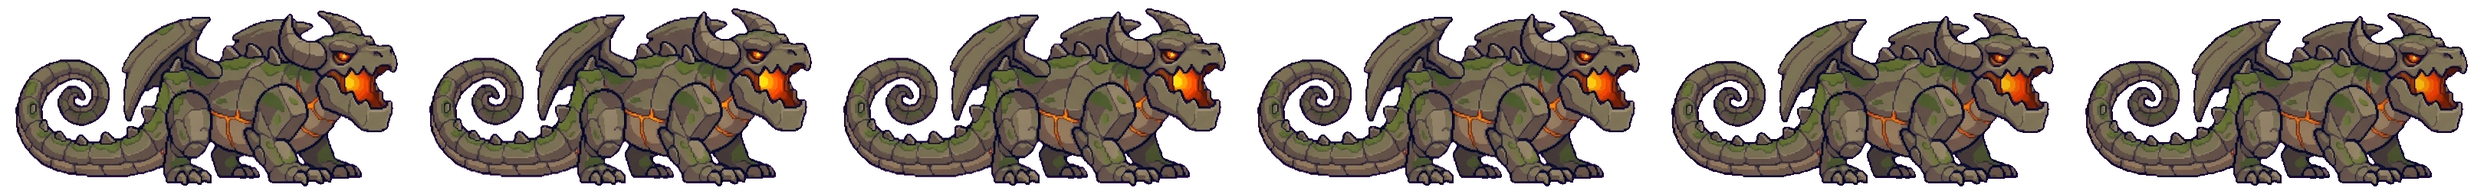
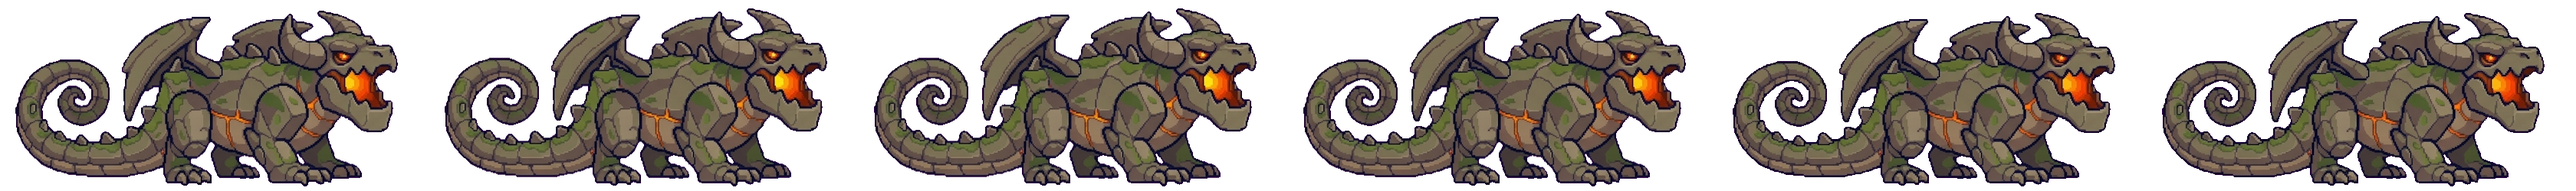
v234: Stone dragon claw attack frames
Claude-Session: https://claude.ai/code/session_014dDJFgpBf2uephg2yojD2h

diff --git a/index.html b/index.html
@@ -738,7 +738,7 @@ table.cmp .ok{color:#2f7a2a}table.cmp .no{color:#b22a1a}table.cmp tr.bad td{back
 <script>
 "use strict";
 // Phiên bản game: tăng mỗi lần phát hành để người chơi biết đang chạy bản nào
-const GAME_VER='233',GAME_DATE='07/11/2026';
+const GAME_VER='234',GAME_DATE='07/11/2026';
 // ================= cấu hình chung =================
 const T=64;
 const $=id=>document.getElementById(id);
@@ -748,7 +748,7 @@ const clamp=(v,a,b)=>Math.max(a,Math.min(b,v));
 
 // ================= tài nguyên Tiny Swords =================
 const A={};
-const ANAMES=['rd_idle','vfx_lp1','vfx_lp2','vfx_lp3','vfx_tt1','vfx_tt2','vfx_tt3','vfx_tl1','vfx_tl2','vfx_tl3','vfx_hk1','vfx_hk2','vfx_hk3','vfx_lt1','vfx_lt2','vfx_lt3','vfx_lt4','gc_fire','tn_cart','tn_npc','gc_bg','gc_foe_idle','gc_foe_run','gc_foe_atk','ng_bob','ng_fish','ng_walk','ng_idle','ng_cast','ar_bg','glad_idle','glad_run','glad_atk','htt_idle','htt_run','htt_atk','htt_sk1','htt_sk2','htt_hurt','htt_death','htl_idle','htl_run','htl_atk','htl_sk1','htl_sk2','htl_hurt','htl_death','hhk_idle','hhk_run','hhk_atk','hhk_sk1','hhk_sk2','hhk_hurt','hhk_death','hlc_idle','hlc_run','hlc_atk','hlc_sk1','hlc_sk2','hlc_hurt','hlc_death','hv_gate_l','hv_gate_o','hv_banner','zoo_house','zoo_banner','zoo_bg_cuu','zoo_bg_cao','zoo_bg_cua','hlp_idle','hlp_run','hlp_atk','hlp_sk1','hlp_sk2','hlp_hurt','hlp_death','golem_idle','golem_run','golem_atk','tilemap','tilemap6','tilemap7','tilemap8','tilemap9','bohua_idle','bohua_run','bohua_atk','vnam_idle','vnam_run','vnam_atk','xlgob_idle','xlgob_run','xlgob_atk','cuareu_idle','cuareu_run','cuareu_atk','luon_idle','luon_run','luon_atk','caolua_idle','caolua_run','caolua_atk','nhennam_idle','nhennam_run','nhennam_atk','satthu_idle','satthu_run','satthu_atk','bogiap_idle','bogiap_run','bogiap_atk','cuyeu_idle','cuyeu_run','cuyeu_atk','ywar_idle','ywar_run','ywar_atk','yarc_idle','yarc_run','yarc_atk','ylan_idle','ylan_run','ylan_atk','water','foam','tree1','tree2','tree3','tree4','bush1','bush2','rock1','rock2','rock3','wrock1','wrock2','sheep_idle','sheep_move','sheep_grass','res_wood','res_meat','res_gold','gold_stone','fx_dust','fx_fire','fx_boom','arrow','tilemap4','tilemap5','av_hero',
+const ANAMES=['rd_idle','rd_atk','vfx_lp1','vfx_lp2','vfx_lp3','vfx_tt1','vfx_tt2','vfx_tt3','vfx_tl1','vfx_tl2','vfx_tl3','vfx_hk1','vfx_hk2','vfx_hk3','vfx_lt1','vfx_lt2','vfx_lt3','vfx_lt4','gc_fire','tn_cart','tn_npc','gc_bg','gc_foe_idle','gc_foe_run','gc_foe_atk','ng_bob','ng_fish','ng_walk','ng_idle','ng_cast','ar_bg','glad_idle','glad_run','glad_atk','htt_idle','htt_run','htt_atk','htt_sk1','htt_sk2','htt_hurt','htt_death','htl_idle','htl_run','htl_atk','htl_sk1','htl_sk2','htl_hurt','htl_death','hhk_idle','hhk_run','hhk_atk','hhk_sk1','hhk_sk2','hhk_hurt','hhk_death','hlc_idle','hlc_run','hlc_atk','hlc_sk1','hlc_sk2','hlc_hurt','hlc_death','hv_gate_l','hv_gate_o','hv_banner','zoo_house','zoo_banner','zoo_bg_cuu','zoo_bg_cao','zoo_bg_cua','hlp_idle','hlp_run','hlp_atk','hlp_sk1','hlp_sk2','hlp_hurt','hlp_death','golem_idle','golem_run','golem_atk','tilemap','tilemap6','tilemap7','tilemap8','tilemap9','bohua_idle','bohua_run','bohua_atk','vnam_idle','vnam_run','vnam_atk','xlgob_idle','xlgob_run','xlgob_atk','cuareu_idle','cuareu_run','cuareu_atk','luon_idle','luon_run','luon_atk','caolua_idle','caolua_run','caolua_atk','nhennam_idle','nhennam_run','nhennam_atk','satthu_idle','satthu_run','satthu_atk','bogiap_idle','bogiap_run','bogiap_atk','cuyeu_idle','cuyeu_run','cuyeu_atk','ywar_idle','ywar_run','ywar_atk','yarc_idle','yarc_run','yarc_atk','ylan_idle','ylan_run','ylan_atk','water','foam','tree1','tree2','tree3','tree4','bush1','bush2','rock1','rock2','rock3','wrock1','wrock2','sheep_idle','sheep_move','sheep_grass','res_wood','res_meat','res_gold','gold_stone','fx_dust','fx_fire','fx_boom','arrow','tilemap4','tilemap5','av_hero',
   'gob_idle','gob_run','gob_atk','garc_idle','garc_run','garc_atk','gboss_idle','gboss_run','gboss_atk','dwar_idle','dwar_run','dwar_atk','darc_idle','darc_run','darc_atk','dlan_idle','dlan_run','dlan_atk','dboss_idle','dboss_run','dboss_atk','ui_ribbon','ic1','ic3','ic4','ic5','ic6',
   'b_castle','b_house1','b_house2','b_house3','b_barracks','b_archery','b_monastery','b_tower','y_house1','y_house2','y_house3','y_monastery','y_archery','p_house1','p_house2','p_barracks','r_castle','r_tower',
   'pawn_idle','pawn_run','pawn_interact_hammer','pawn_interact_pickaxe','pawn_idle_hammer','pawn_run_hammer','pawn_idle_pickaxe','pawn_run_pickaxe','pawn_idle_gold','pawn_run_gold',
@@ -759,7 +759,7 @@ function loadAssets(){let ok=0;return Promise.all(ANAMES.map(n=>new Promise(res=
 const BOTTOM={b_archery:240,b_castle:249,r_castle:249,b_house1:173,y_house1:173,p_house1:173,b_house2:178,y_house2:178,p_house2:178,b_house3:172,y_house3:172,b_barracks:245,p_barracks:245,b_monastery:310,y_monastery:310,y_archery:240,b_tower:230,r_tower:230};
 const TOPV={b_archery:61,b_castle:41,b_house1:16,y_house1:16,p_house1:16,b_house2:23,y_house2:23,p_house2:23,b_house3:37,y_house3:37,b_barracks:58,p_barracks:58,b_monastery:45,y_monastery:45,y_archery:61,b_tower:46};
 const TN_POS={x:9.5,y:12.85};
-const SHEET={rd:{fw:540,fh:250,ax:270,ay:244},vfxc:{fw:192,fh:192,ax:96,ay:96},vfxb:{fw:192,fh:192,ax:96,ay:186},def:{fw:192,fh:192,ax:96,ay:136},hk:{fw:192,fh:240,ax:96,ay:200},gb:{fw:288,fh:216,ax:144,ay:200,big:1},dk:{fw:320,fh:216,ax:160,ay:200,big:1},rk:{fw:400,fh:216,ax:170,ay:200,big:1},lan:{fw:320,fh:320,ax:160,ay:198},sheep:{fw:128,fh:128,ax:64,ay:84},tree1:{fw:192,fh:256,ax:96,ay:238},tree2:{fw:192,fh:256,ax:96,ay:245},tree3:{fw:192,fh:192,ax:96,ay:166},tree4:{fw:192,fh:192,ax:96,ay:164},bush:{fw:128,fh:128,ax:64,ay:78},fx:{fw:64,fh:64,ax:32,ay:64},wrock:{fw:64,fh:64,ax:32,ay:48}};
+const SHEET={rd:{fw:560,fh:250,ax:280,ay:244},vfxc:{fw:192,fh:192,ax:96,ay:96},vfxb:{fw:192,fh:192,ax:96,ay:186},def:{fw:192,fh:192,ax:96,ay:136},hk:{fw:192,fh:240,ax:96,ay:200},gb:{fw:288,fh:216,ax:144,ay:200,big:1},dk:{fw:320,fh:216,ax:160,ay:200,big:1},rk:{fw:400,fh:216,ax:170,ay:200,big:1},lan:{fw:320,fh:320,ax:160,ay:198},sheep:{fw:128,fh:128,ax:64,ay:84},tree1:{fw:192,fh:256,ax:96,ay:238},tree2:{fw:192,fh:256,ax:96,ay:245},tree3:{fw:192,fh:192,ax:96,ay:166},tree4:{fw:192,fh:192,ax:96,ay:164},bush:{fw:128,fh:128,ax:64,ay:78},fx:{fw:64,fh:64,ax:32,ay:64},wrock:{fw:64,fh:64,ax:32,ay:48}};
 // hiệu ứng chiêu anh hùng (Gemini, 192px/khung): c = neo giữa, b = neo đáy
 const VFX={lp1:'c',lp2:'c',lp3:'b',tt1:'c',tt2:'c',tt3:'c',tl1:'b',tl2:'c',tl3:'c',hk1:'b',hk2:'b',hk3:'c',lt1:'c',lt2:'c',lt3:'c',lt4:'b'};
 const vfxN=k=>{const im=A['vfx_'+k];return im?Math.max(1,Math.floor(im.width/192)):0};
@@ -3544,7 +3544,7 @@ function arStage(ids,script,X,fids){const cv=$('arCv');if(!cv)return;if(cv.clien
         if(qq>=1&&!A.vfx_lt4){g.strokeStyle='#cfe8ff';g.lineWidth=3;g.beginPath();g.ellipse(x,y,14+q*40,5+q*12,0,0,7);g.stroke()}})}
       g.restore()});
     // đạn của đòn đánh thường tầm xa
-    U.forEach(u=>{const a=u.act;if(!a||!u.far||a.e.kind!=='atk'||u.dead>=0)return;const p=(T-a.t)/IMP;if(p<0||p>1)return;const tg=a.e.hits[0]&&U[a.e.hits[0].tg];if(!tg)return;const[x,y]=pos(u,1),[tx,ty]=pos(tg,1);
+    U.forEach(u=>{const a=u.act;if(!a||!u.far||a.e.kind!=='atk'||u.dead>=0||(RD&&u.side))return;const p=(T-a.t)/IMP;if(p<0||p>1)return;const tg=a.e.hits[0]&&U[a.e.hits[0].tg];if(!tg)return;const[x,y]=pos(u,1),[tx,ty]=pos(tg,1);
       const sx=x+(tx-x)*p,sy=y-60*SK+(ty-y)*p-Math.sin(p*Math.PI)*24;if(u.id==='lactinh'&&A.vfx_lt1){sp('vfx_lt1','vfxc',(T*12)%6,sx,sy,tx<x,1,0,.3*SK/SC);return}g.fillStyle=u.col;g.beginPath();g.arc(sx,sy,6,0,7);g.fill();g.fillStyle='#fff';g.beginPath();g.arc(sx,sy,2.5,0,7);g.fill()});
     st.sfx=st.sfx.filter(o=>T-o.t<o.d);st.sfx.forEach(o=>{if(T<o.t)return;const q=(T-o.t)/o.d,fr=o.loop?((T-o.t)*10)%o.n:Math.min(o.n-1,q*o.n);sp(o.k,o.sh,fr,o.x,o.y,o.flip,o.loop&&q>.8?(1-q)*5:1,0,o.z/SC)});
     st.pops=st.pops.filter(o=>T-o.t<1);st.pops.forEach(o=>{const a=T-o.t;g.globalAlpha=Math.max(0,1-a);g.font=`900 ${o.z}px sans-serif`;g.textAlign='center';g.lineWidth=4;g.strokeStyle='#2a1608';g.strokeText(o.s,o.x,o.y-a*36);g.fillStyle=o.col;g.fillText(o.s,o.x,o.y-a*36);g.globalAlpha=1});
